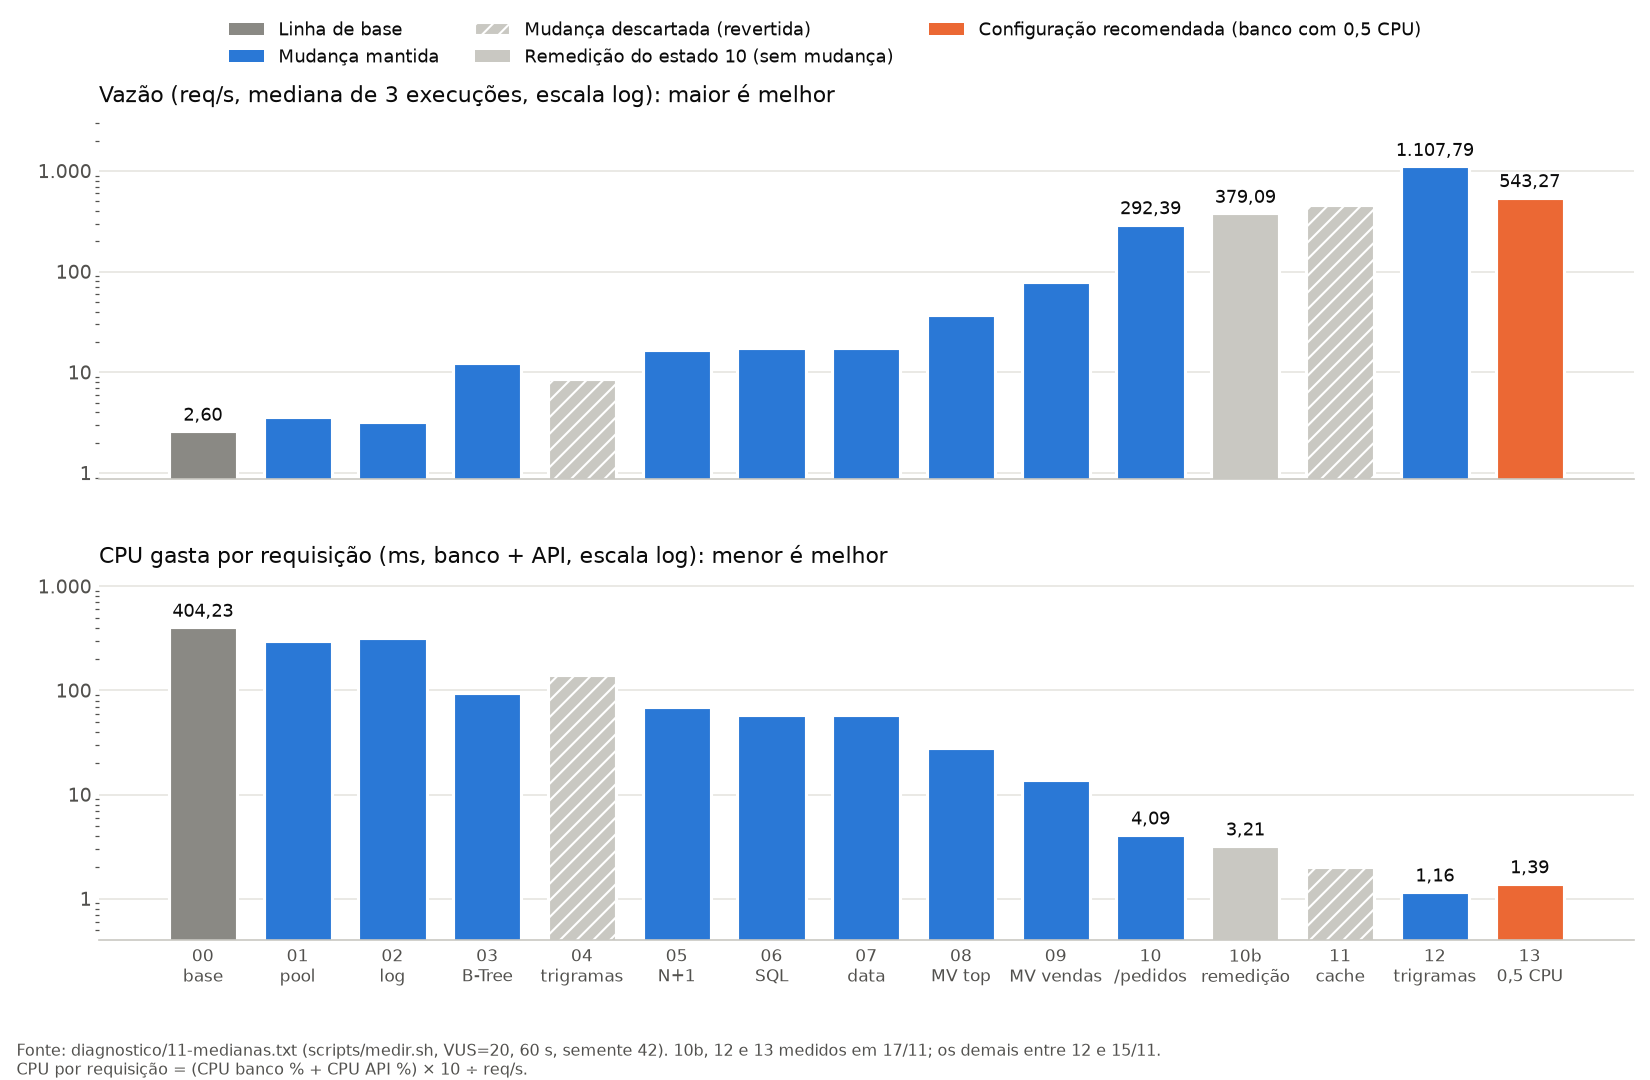
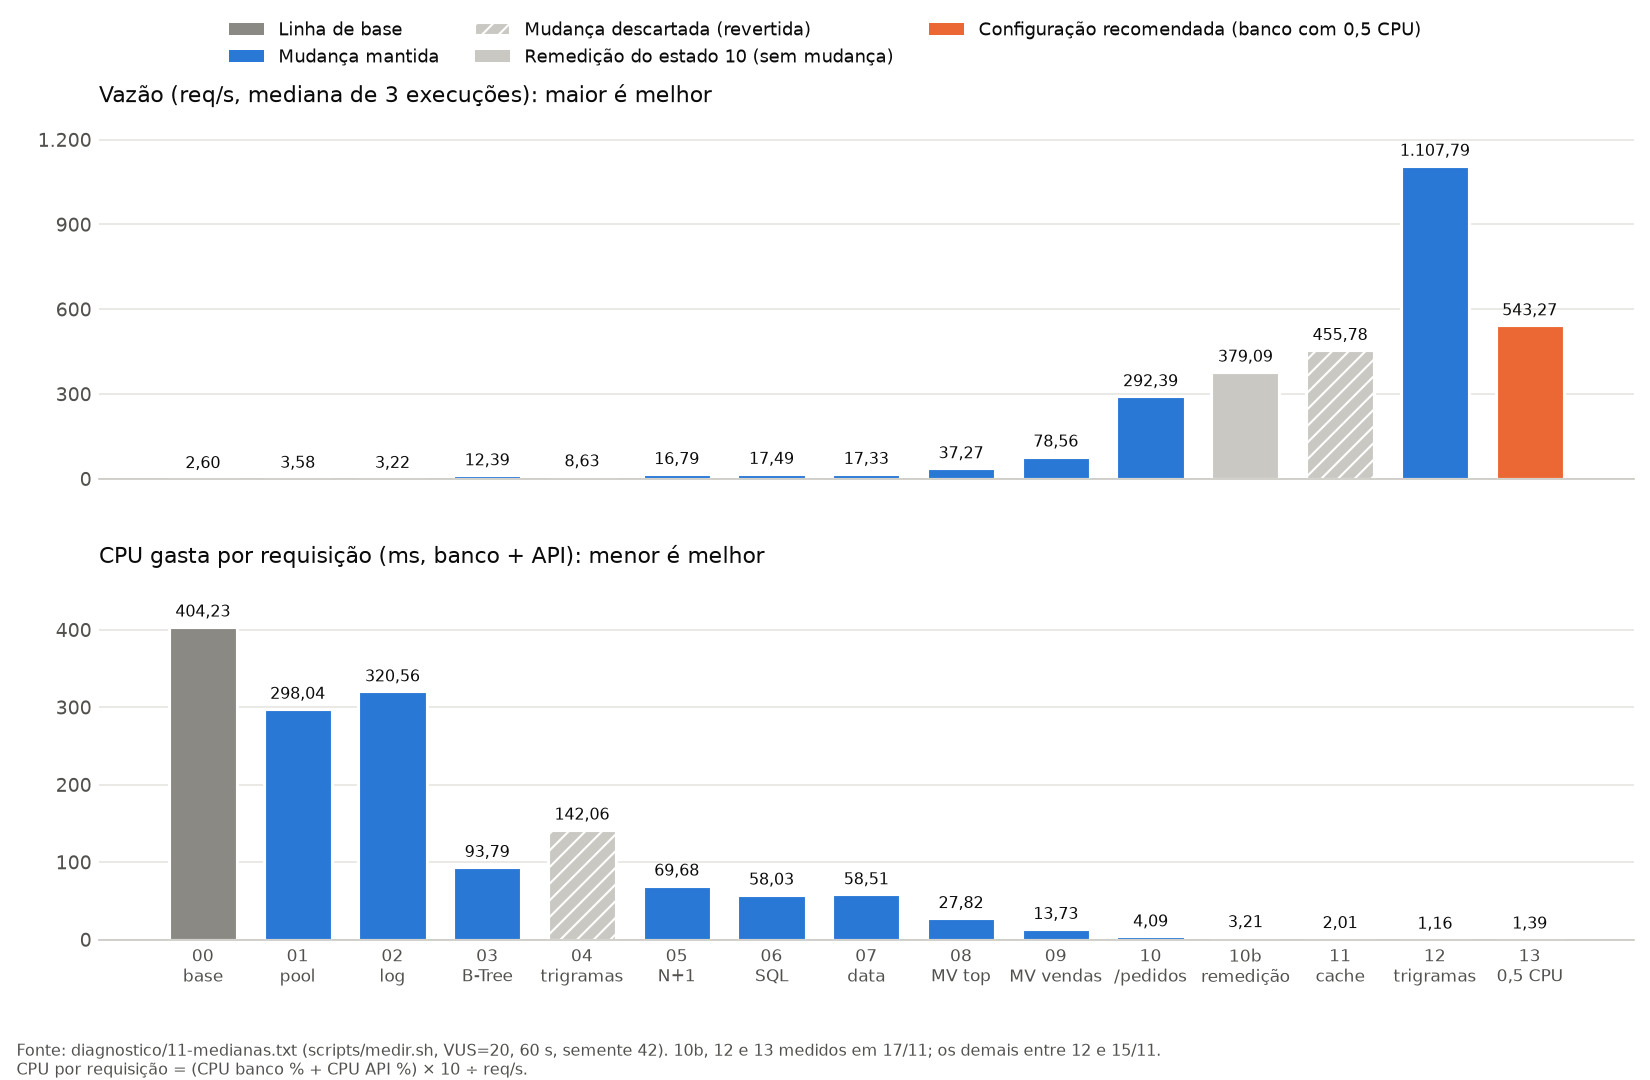
docs: grafico em escala linear e remove script de geracao

diff --git a/artigo/artigo.md b/artigo/artigo.md
@@ -77,7 +77,7 @@ Cada linha compara a mediana de três execuções com a da mudança anterior; o 
 | 12 trigramas sobre o 10 | GIN tira a busca do banco | 106,2 → 65,0 | 379,09 → 1.107,79 | B 80,4%/470,9; A 48,2%/30,3 | [1](../resultados/20261117-125628-12-gin-busca-sobre-10/resumo.txt) [2](../resultados/20261117-125933-12-gin-busca-sobre-10/resumo.txt) [3](../resultados/20261117-130207-12-gin-busca-sobre-10/resumo.txt) | Mantida |
 | 13 banco com 0,5 CPU | Meia CPU basta no banco | 65,0 → 93,5 | 1.107,79 → 543,27 | B 49,7%/282,6; A 25,8%/28,5 | [1](../resultados/20261117-131605-13-banco-meia-cpu/resumo.txt) [2](../resultados/20261117-131802-13-banco-meia-cpu/resumo.txt) [3](../resultados/20261117-132204-13-banco-meia-cpu/resumo.txt) | Recomendada |
 
-![Dois painéis em escala log, da linha de base ao experimento 13: vazão em req/s subindo de 2,60 para 1.107,79 (12) e 543,27 (13, configuração recomendada), e CPU por requisição caindo de 404,23 ms para 1,16 ms (12) e 1,39 ms (13)](img/evolucao-desempenho.png)
+![Dois painéis em escala linear, da linha de base ao experimento 13: vazão em req/s subindo de 2,60 para 1.107,79 (12) e 543,27 (13, configuração recomendada), e CPU por requisição caindo de 404,23 ms para 1,16 ms (12) e 1,39 ms (13)](img/evolucao-desempenho.png)
 
 A CPU do banco fica perto do limite em quase todas as linhas por causa da carga fechada [15]: cada melhoria vira mais requisições. O custo aparece na CPU por requisição, que caiu de 404,23 ms na linha de base para 1,16 ms no 12 e 1,39 ms no 13. Os contadores do cgroup mostram o banco pausado por esgotar a cota em 92,2% dos períodos de 100 ms no 10b ([throttling](../diagnostico/10-throttling-cpu-banco.txt)), o que explica rotas com mediana de 8,7 ms e p95 de 93,4 ms. Com o índice do 12, a fração caiu para 6,7%.
 

diff --git a/README.md b/README.md
@@ -47,7 +47,6 @@ Como ler a tabela:
 
 ```bash
 python3 diagnostico/medianas.py > diagnostico/11-medianas.txt   # medianas e CPU por requisição a partir de resultados/
-python3 artigo/img/grafico.py                                    # gráfico do artigo (precisa de matplotlib; instruções no arquivo)
 ```
 
 ## Prazo e entrega
